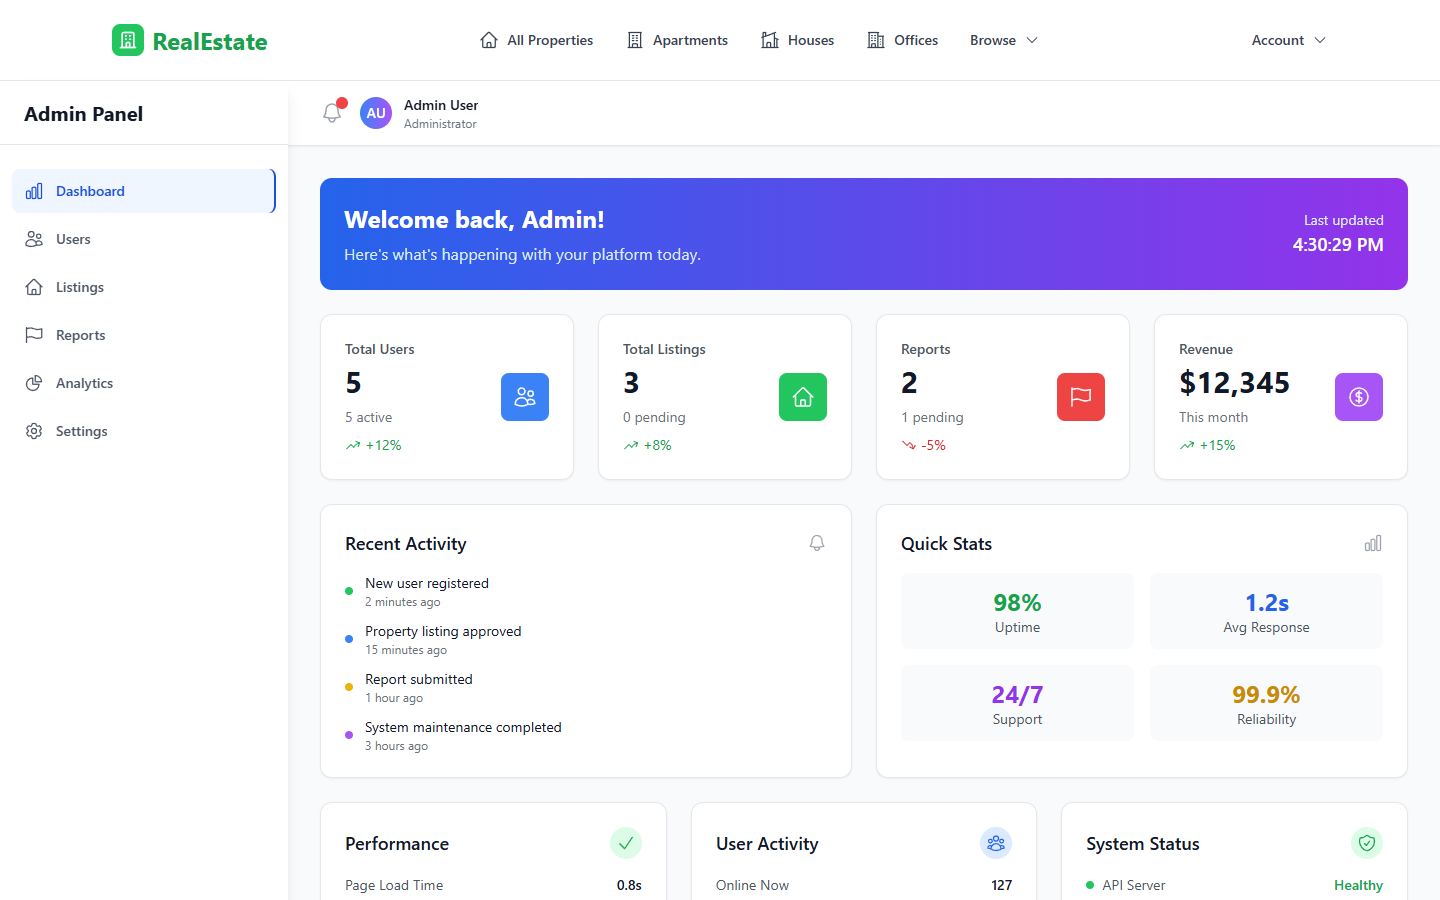
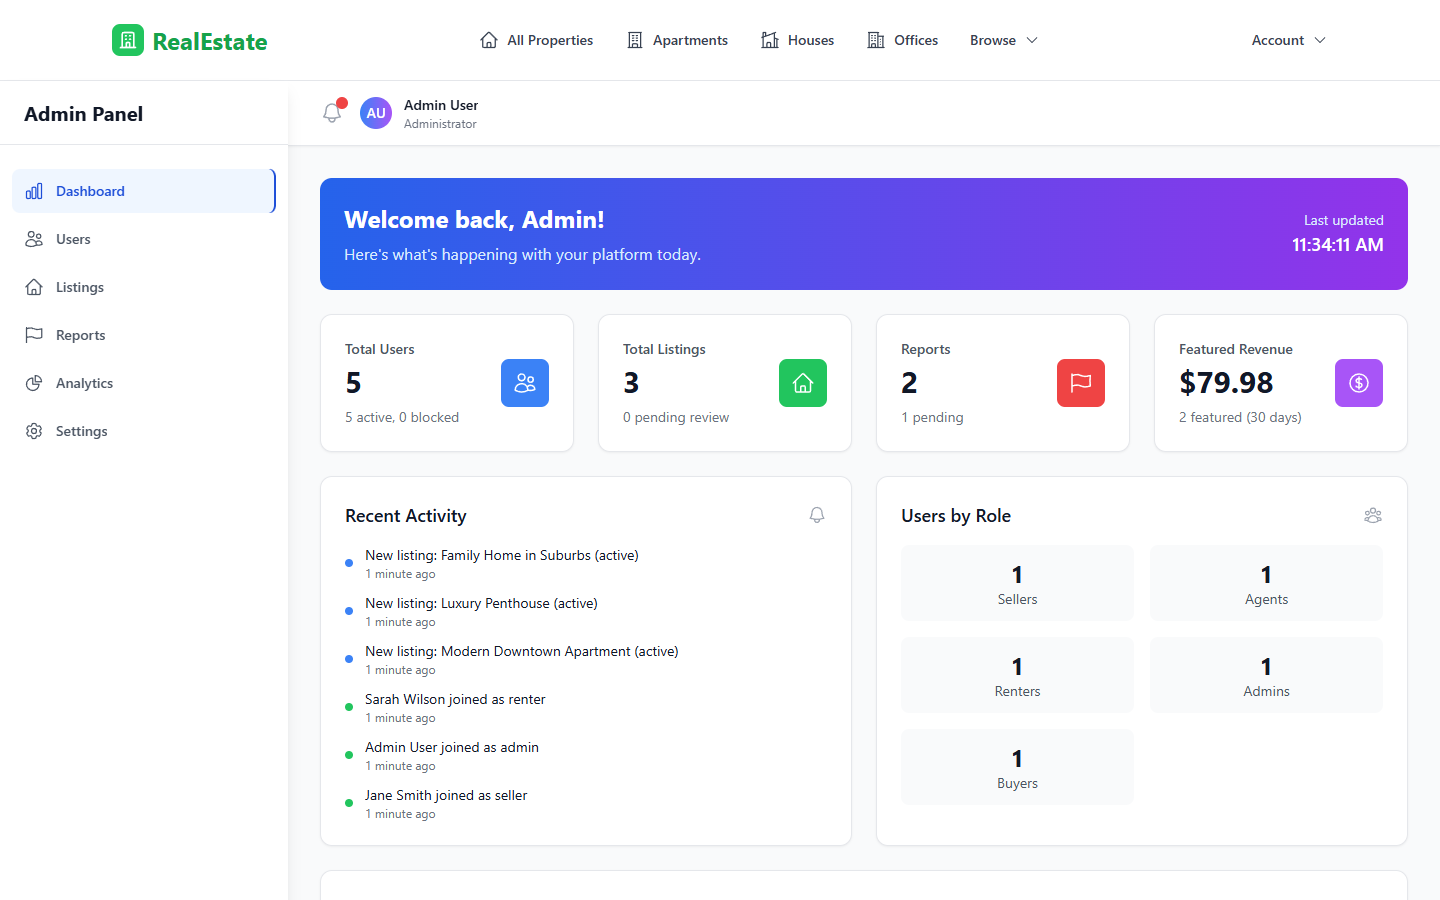
fix(admin): load revenue and enhanced analytics with a valid token
Both thunks passed the token as the params argument, so requests went
out with 'Authorization: Bearer undefined' and were rejected. Also
refresh README screenshots from a clean seeded demo database.

diff --git a/frontend/src/store/slices/adminSlice.js b/frontend/src/store/slices/adminSlice.js
@@ -216,7 +216,7 @@ export const fetchEnhancedAnalytics = createAsyncThunk(
   async (_, { rejectWithValue, getState }) => {
     try {
       const { token } = getState().auth;
-      const response = await adminAPI.getEnhancedAnalytics(token);
+      const response = await adminAPI.getEnhancedAnalytics({}, token);
       return adminAPI.handleResponse(response);
     } catch (error) {
       return rejectWithValue(adminAPI.handleError(error));
@@ -230,7 +230,7 @@ export const fetchRevenueAnalytics = createAsyncThunk(
   async (_, { rejectWithValue, getState }) => {
     try {
       const { token } = getState().auth;
-      const response = await adminAPI.getRevenueAnalytics(token);
+      const response = await adminAPI.getRevenueAnalytics({}, token);
       return adminAPI.handleResponse(response);
     } catch (error) {
       return rejectWithValue(adminAPI.handleError(error));

diff --git a/frontend/src/pages/Admin/AdminDashboard.jsx b/frontend/src/pages/Admin/AdminDashboard.jsx
@@ -300,7 +300,7 @@ const AdminDashboard = () => {
         <StatsCard
           title="Featured Revenue"
           value={formatCurrency(revenueAnalytics?.featuredListingRevenue)}
-          subtitle={`${revenueAnalytics?.featuredListingsSold || 0} featured listings, last 30 days`}
+          subtitle={`${revenueAnalytics?.featuredListingsSold || 0} featured (30 days)`}
           icon={CurrencyDollarIcon}
           color="purple"
         />
